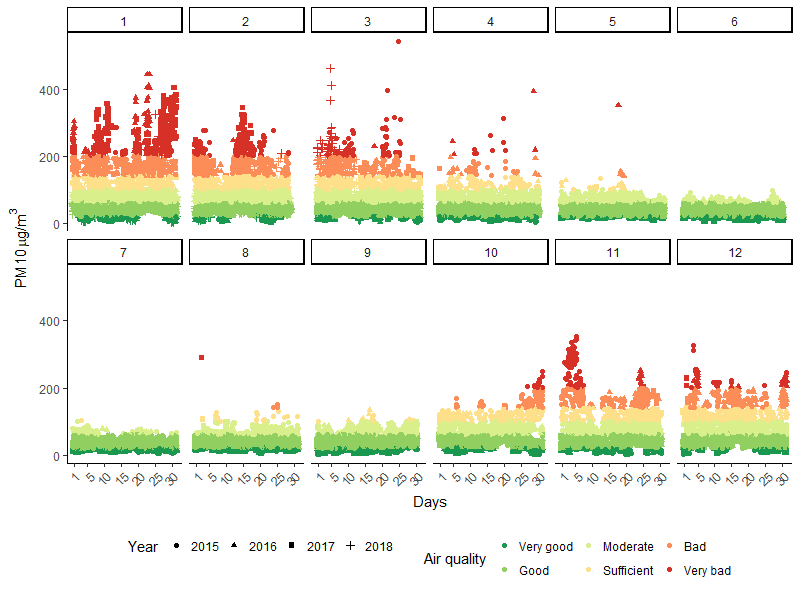
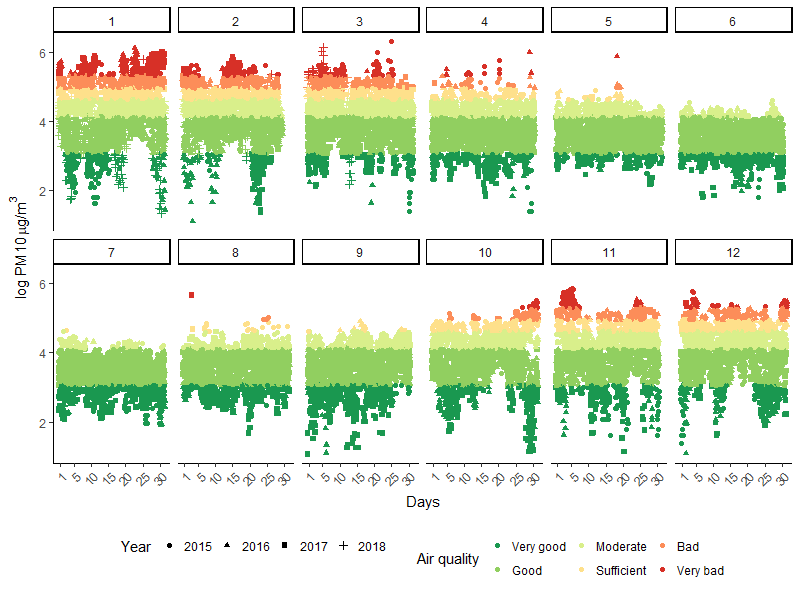
1) PM 10 distribution chapter added 2) log PM 10 data added

diff --git a/Readme.md b/Readme.md
@@ -5,6 +5,15 @@
 [Introduction](#introduction)  
 [Data sources](#data-sources)  
 [Data exploration](#data-exploration)  
+  [PM 10 distribution](#pm-10-distribution)  
+  [Temperature](#temperature)  
+  [Wind speed](#wind-speed)  
+  [Humidity](#humidity)  
+  [Pressure](#pressure)  
+  [Precipitation](#precipitation)  
+  [Feels like temperature](#feels-like-temperature)  
+  [Cloudiness](#cloudiness)  
+  [Wind direction](#wind-direction)  
 [PM10 modelling](#pm10-modelling)  
 [Air pollution modelling](#air-pollution-modelling)  
 [What's next?](#whats-next)  
@@ -17,8 +26,8 @@ Finally I want to answer the title question: as we can predict weather, can we a
 ## Data sources
 
 Analysis was performed on the basis on smog data (measured as PM10 concentration) and historical weather data in the period from January 1, 2015 to March 15, 2018. Smog data are powered by <a href="http://powietrze.gios.gov.pl" title="Chief Inspectorate For Environmental Protection"> Polish Chief Inspectorate For Environmental Protection</a>. 
-Weather data are powered by <a href="https://developer.worldweatheronline.com/" title="Free Weather API" target="_blank">World Weather Online</a>. All data were available in 1-hour interval.
-Whole analysis was performed for one measured station located in Krasiński Street, Cracow, Poland. I believe that general ideas from this analysis could be applied into other locations, but detailed results may varies.
+Weather data are powered by <a href="https://developer.worldweatheronline.com/" title="Free Weather API" target="_blank">World Weather Online</a>. All data were available in 1-hour intervals.
+Whole analysis was performed for one measured station located in Krasiński Street, Cracow, Poland. I believe that general ideas from this analysis could be applied into other locations, but detailed results may vary.
 Available weather data included:
 * Temperature (&deg;C)
 * Wind speed (kmph)
@@ -26,10 +35,48 @@ Available weather data included:
 * Pressure (milibars)
 * Precipitation (mm)
 * Feels like temperature (&deg;C)
-* Cloud cover amount (%)
+* Cloudiness (%)
 * Wind direction (degrees)
 
 ## Data exploration
+
+#### PM 10 distribution
+
+For a start let's plot histogram for PM10. As we know PM10 can obtain any value greater than zero and as we can see in the picture below, distribution is skeewed in comparison to normal distribution with the same mean and standard deviation.
+![PM10 histogram](plots/FullDist.png)
+
+As it is easier to work with normal distribution, we can logarithm the data and, as a result obtain almost perfect normal distribution. So, from now I will focus only on logarithm PM10 data.
+
+![Log PM10 histogram](plots/FullLogDist.png)
+
+Next let's see logarithm PM10 over months. As it's hard to think about logarithm PM10 exact values I've painted data according to Polish air pollution norms. We can clearly see that smog is a problem only in cold months - from October to April. 
+![PM10 over months](plots/FullMonthly.png)
+
+In my opinion we can obtain better results if we exclude summer months from the analysis. Of course in the summer we have higher temperatures, but other predictors won't vary as much in comparison to winter months. Also as there is no smog in summer, nobody will be interested in the model results for these months. Just for ensure we need to check the distribution of logarithm PM10 after summer exclusion. As we can see below it's moved into right now, but still pretty close to normal.
+
+![Log PM10 histogram summer exclusion](plots/WinterDist.png)
+
+###### Summary
+
+In conclusion, we made two assumptions for next chapters:
+* we use logarithm PM 10 instead of pure values
+* from May to September data were excluded
+
+#### Temperature
+
+#### Wind speed
+
+#### Humidity
+
+#### Pressure
+
+#### Precipitation
+
+#### Feels like temperature
+
+#### Cloudiness
+
+#### Wind direction
 
 ## PM10 modelling
 
